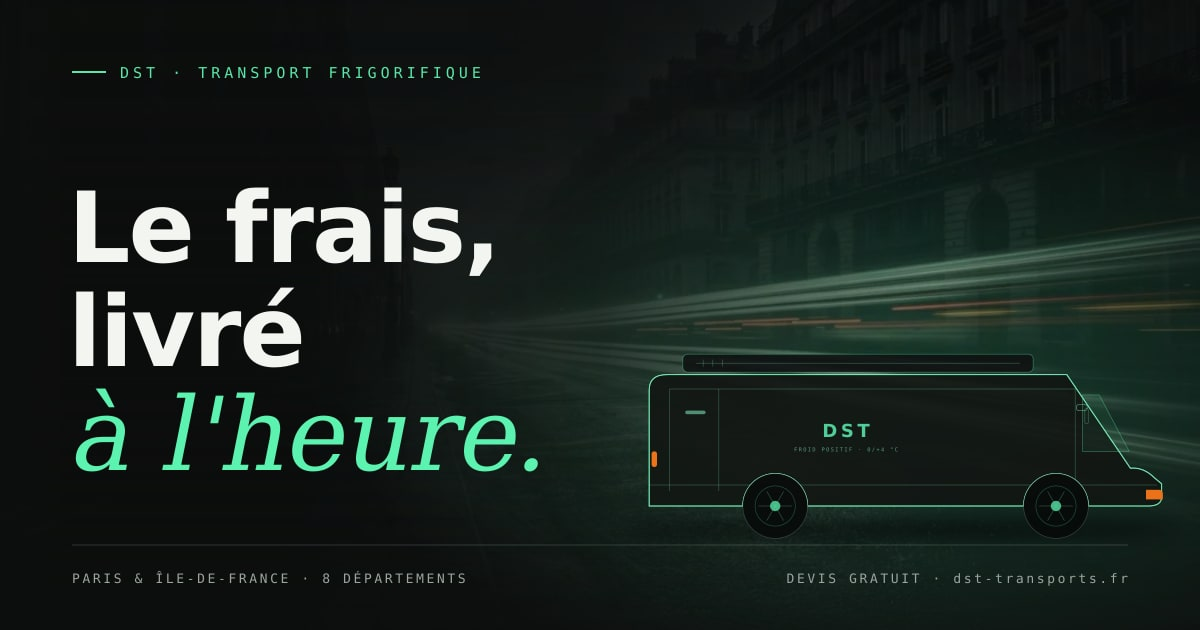
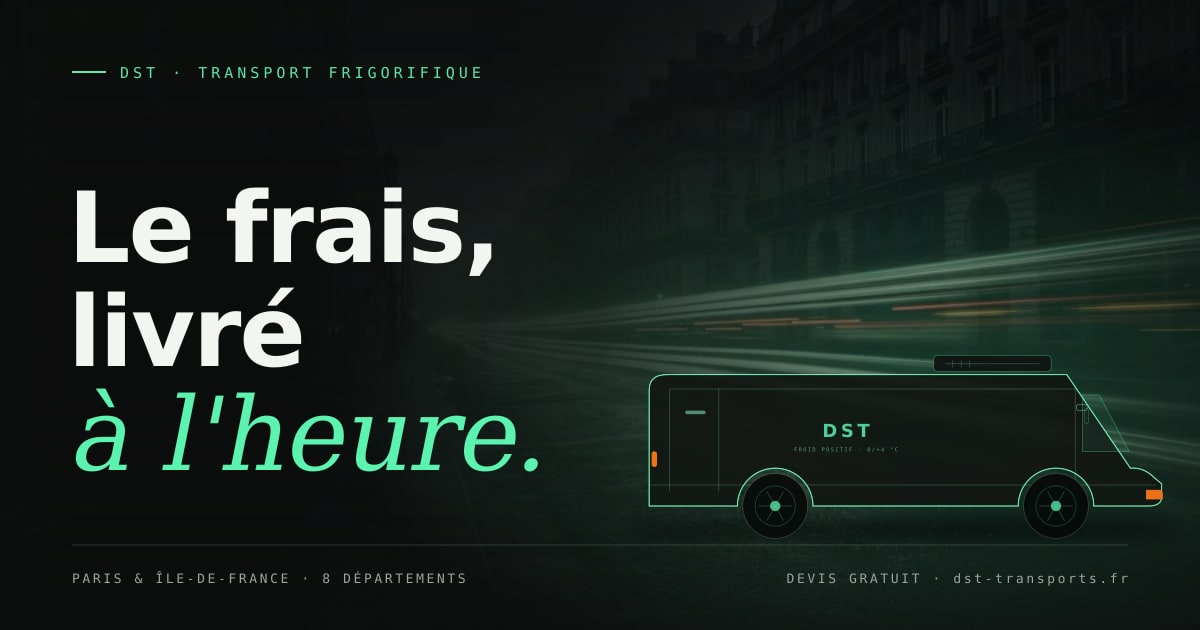
Finitions : préchargeur 1,6 s, repli sans GSAP, HTML valide, OG et accessibilité
- préchargeur séquencé (thermomètre + ouverture des portes) sous 1,6 s
- formulaire utilisable même si GSAP ne charge pas, lignes d'engagements révélées
- validité HTML stricte, liens de polices échappés
- onglets flotte en aria-pressed, focus clavier conservé
- mentions légales sans notes internes, crédits conditionnels, footer sans réseaux vides
- image OG régénérée (pare-brise translucide), fputcsv et CSV durcis

diff --git a/assets/js/main.js b/assets/js/main.js
@@ -770,13 +770,15 @@ function runPreloader(gsap) {
         const tl = gsap.timeline({
             defaults: { ease: 'power2.inOut' },
             onComplete: () => {
+                /* Les portes s'ouvrent sur le contenu, puis l'overlay disparaît.
+                   Durée totale maîtrisée : ~0,9 s de séquence + 0,7 s d'ouverture. */
                 preloader.classList.add('is-open');
-                docEl.classList.add('preloader-done');
                 window.setTimeout(() => {
+                    docEl.classList.add('preloader-done');
                     docEl.classList.remove('preloading');
                     preloader.style.display = 'none';
                     resolve();
-                }, 900);
+                }, 700);
             },
         });
 
@@ -785,10 +787,10 @@ function runPreloader(gsap) {
                 .to(letters, { opacity: 1, duration: .3, stagger: .06 }, .18)
                 .to(flakes, { opacity: 1, rotate: 0, duration: .6, ease: 'power3.out' }, .28);
         }
-        tl.to(fill, { scaleX: .9, duration: 1, ease: 'power2.inOut' }, .1)
+        tl.to(fill, { scaleX: .9, duration: .78, ease: 'power2.inOut' }, .1)
             .to(value, {
                 t: 3,
-                duration: 1,
+                duration: .78,
                 ease: 'power2.inOut',
                 onUpdate: () => {
                     if (temp) temp.textContent = `${value.t.toFixed(1).replace('.', ',')} °C`;
@@ -796,8 +798,8 @@ function runPreloader(gsap) {
             }, .1)
             .call(() => {
                 if (status) status.textContent = 'Chaîne du froid activée';
-            }, null, 1.05)
-            .to({}, { duration: .25 });
+            }, null, .8)
+            .to({}, { duration: .05 });
     });
 }
 

diff --git a/assets/css/style.css b/assets/css/style.css
@@ -947,7 +947,7 @@ code {
     bottom: 0;
     width: 50.15%;
     background: var(--carbone);
-    transition: transform 1s var(--ease-inout);
+    transition: transform .7s var(--ease-inout);
     will-change: transform;
 }
 

diff --git a/partials/head.php b/partials/head.php
@@ -72,7 +72,6 @@ $jsonLd = [
 ];
 ?>
 <meta charset="utf-8">
-    <script>document.documentElement.classList.remove('no-js');</script>
 <meta name="viewport" content="width=device-width, initial-scale=1, viewport-fit=cover">
 <title><?= htmlspecialchars($seo['title'], ENT_QUOTES, 'UTF-8') ?></title>
 <meta name="description" content="<?= htmlspecialchars($seo['description'], ENT_QUOTES, 'UTF-8') ?>">
